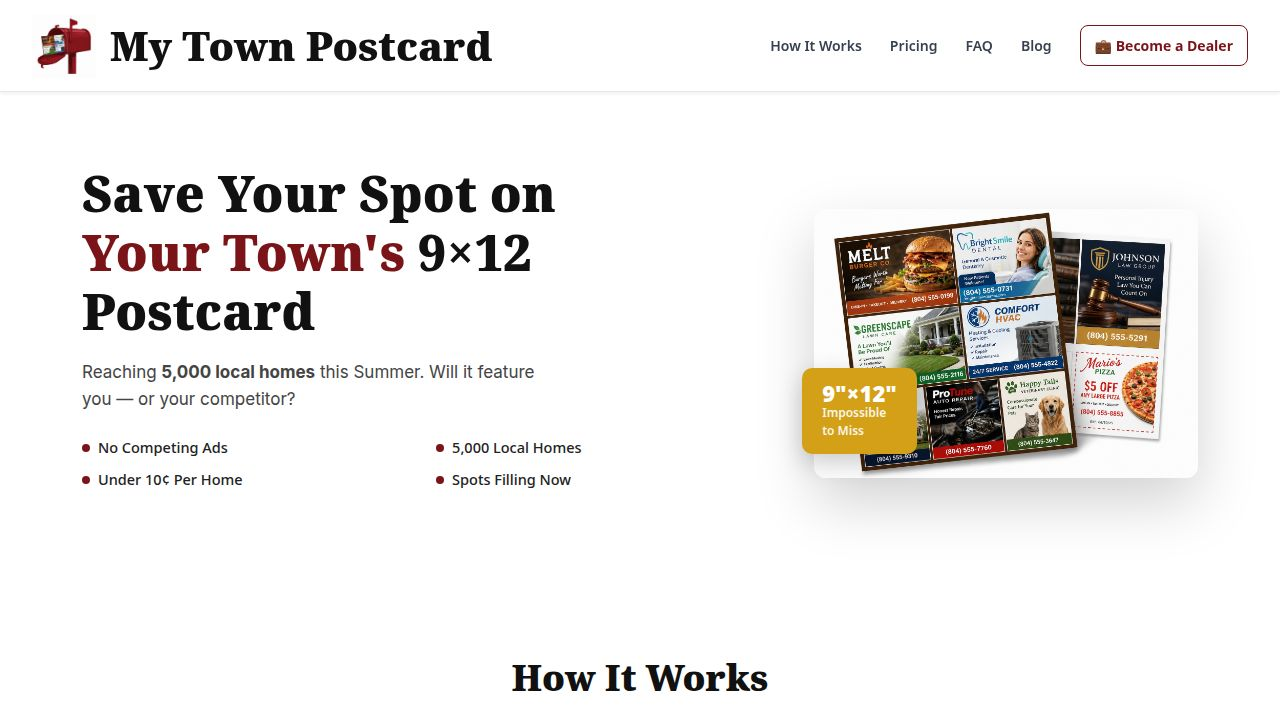
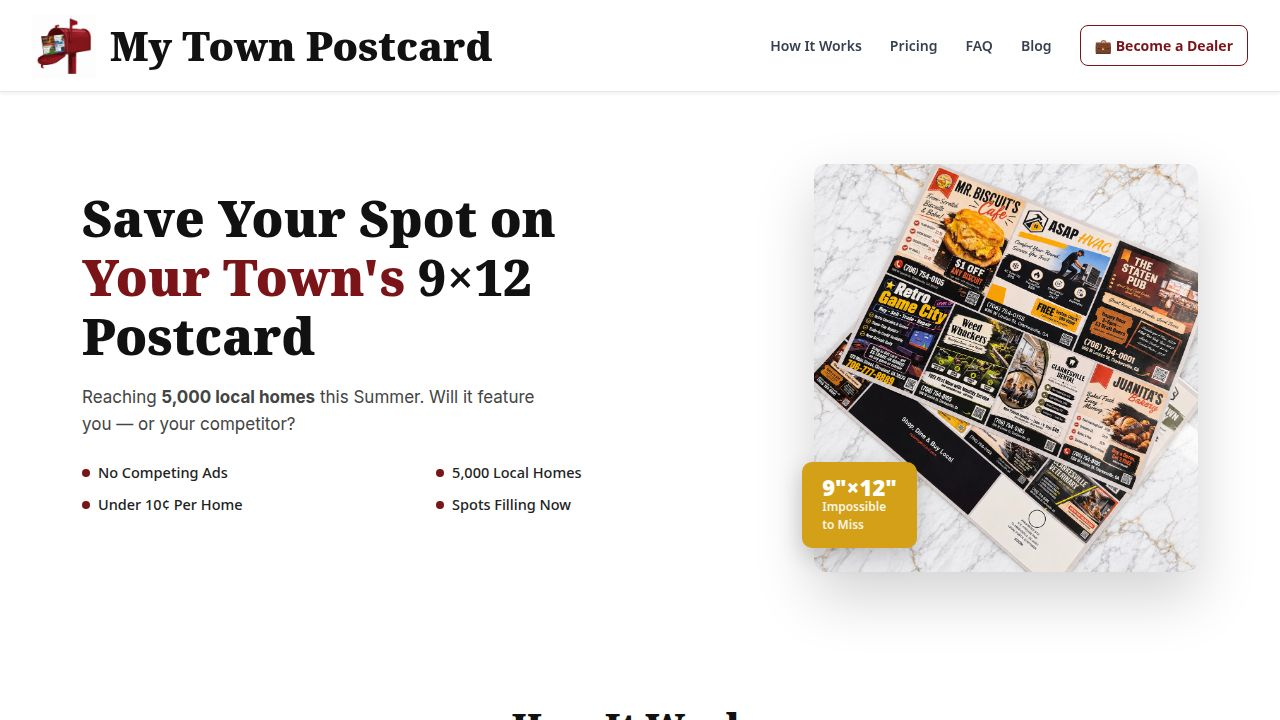
Update hero section to display new postcard image and adjust sizing
Replace the postcard image in the hero section with a new one and update its styling to ensure proper display.

Replit-Commit-Author: Agent
Replit-Commit-Session-Id: e9102c3a-878d-4203-b69e-22ad8caf7f66
Replit-Commit-Checkpoint-Type: full_checkpoint
Replit-Commit-Event-Id: ec6f239e-5419-4949-8174-28e651e33b7b
Replit-Commit-Screenshot-Url: https://storage.googleapis.com/screenshot-production-us-central1/04b63db8-4f03-498d-a1dc-4860ec254d7e/e9102c3a-878d-4203-b69e-22ad8caf7f66/oN1qiGr
Replit-Helium-Checkpoint-Created: true

diff --git a/artifacts/localspot/src/landingSections.tsx b/artifacts/localspot/src/landingSections.tsx
@@ -233,10 +233,11 @@ export function Hero({ copy = DEFAULT_COPY }: { copy?: LandingCopy }) {
 
       <div style={{ flex: "7 1 220px", minWidth: 200, position: "relative" }}>
         <img
-          src={`${import.meta.env.BASE_URL}postcard-hero-double.png`}
+          src={`${import.meta.env.BASE_URL}postcard-hero.png`}
           alt="Sample 9×12 co-op postcard"
-          style={{ width: "100%", maxWidth: 420, borderRadius: 12,
-            boxShadow: "0 24px 60px rgba(0,0,0,0.18)", display: "block" }}
+          style={{ width: "100%", maxWidth: 520, borderRadius: 12,
+            boxShadow: "0 24px 60px rgba(0,0,0,0.18)", display: "block",
+            objectFit: "cover" }}
         />
         <div style={{
           position: "absolute", bottom: 24, left: -12,